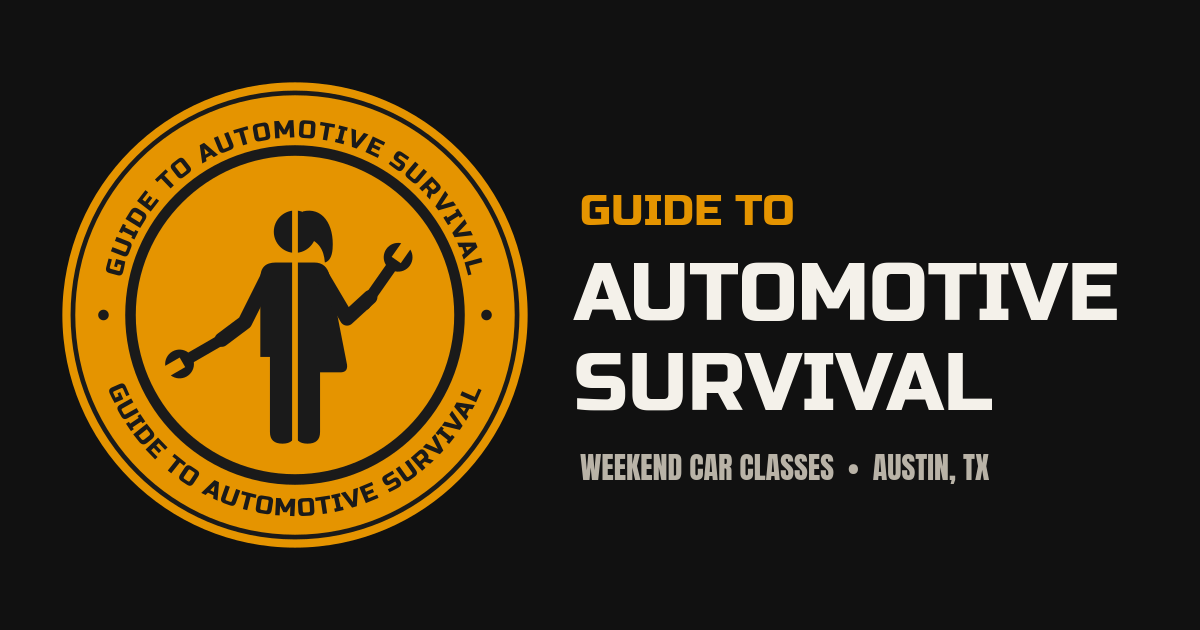
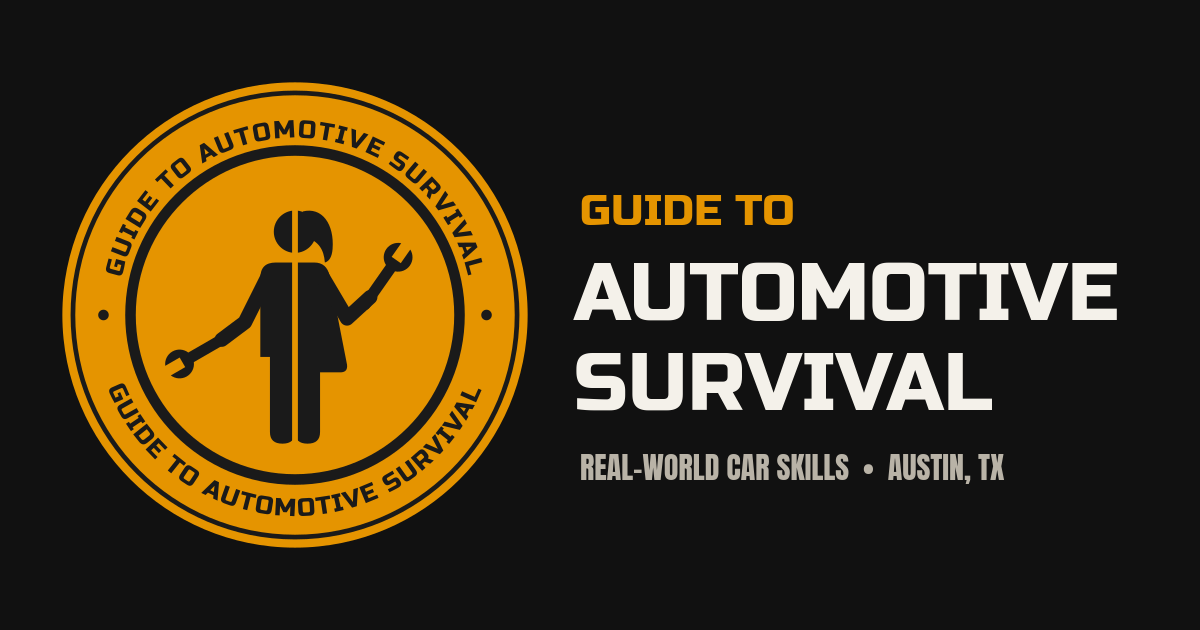
removed all weekend infoff

Changed region(s): [[0.4625, 0.7238, 0.8325, 0.7841]]

diff --git a/index.html b/index.html
@@ -3,13 +3,13 @@
 <head>
   <meta charset="UTF-8">
   <meta name="viewport" content="width=device-width, initial-scale=1.0">
-  <title>Guide to Automotive Survival | Weekend Car Classes in Austin, TX</title>
-  <meta name="description" content="Guide to Automotive Survival — hands-on weekend car classes in Austin, TX, taught by Cleveland Shinn of Oddball Kustom Garage. Registration opening soon.">
+  <title>Guide to Automotive Survival | Hands-On Car Classes in Austin, TX</title>
+  <meta name="description" content="Guide to Automotive Survival — hands-on, real-world car classes in Austin, TX, taught by Cleveland Shinn of Oddball Kustom Garage. Registration opening soon.">
   <meta name="theme-color" content="#111111">
 
   <!-- Social preview -->
   <meta property="og:title" content="Guide to Automotive Survival">
-  <meta property="og:description" content="Hands-on weekend car classes in Austin, TX. Taught by Cleveland Shinn of Oddball Kustom Garage. Registration opening soon.">
+  <meta property="og:description" content="Hands-on, real-world car classes in Austin, TX. Taught by Cleveland Shinn of Oddball Kustom Garage. Registration opening soon.">
   <meta property="og:type" content="website">
   <!-- Social platforms need an absolute URL; this works once the domain points at Netlify -->
   <meta property="og:image" content="https://www.guidetoautomotivesurvival.com/images/brand/og-image.png">
@@ -75,7 +75,7 @@
         <div class="hero__shade" aria-hidden="true"></div>
 
         <div class="hero__content">
-          <p class="hero__eyebrow">Weekend car classes &middot; Austin, TX</p>
+          <p class="hero__eyebrow">Real-world car skills &middot; Austin, TX</p>
           <h1 class="hero__title" id="hero-title">Don't Get<br>Stranded.</h1>
           <p class="hero__lede">Hands-on classes that teach you to handle your car when it counts — on the roadside, in the driveway, and at the shop counter.</p>
           <div class="hero__actions">
@@ -98,8 +98,8 @@
     <!-- ================= TICKER ================= -->
     <div class="ticker" aria-hidden="true">
       <div class="ticker__track">
-        <span>Site under construction</span><span>Saturdays &amp; Sundays</span><span>South Austin</span><span>Know your car</span><span>Register online soon</span><span>Gift cards coming</span><span>The answers are in the class</span>
-        <span>Site under construction</span><span>Saturdays &amp; Sundays</span><span>South Austin</span><span>Know your car</span><span>Register online soon</span><span>Gift cards coming</span><span>The answers are in the class</span>
+        <span>Site under construction</span><span>Hands-on training</span><span>South Austin</span><span>Know your car</span><span>Register online soon</span><span>Gift cards coming</span><span>The answers are in the class</span>
+        <span>Site under construction</span><span>Hands-on training</span><span>South Austin</span><span>Know your car</span><span>Register online soon</span><span>Gift cards coming</span><span>The answers are in the class</span>
       </div>
     </div>
 
@@ -114,8 +114,8 @@
             <div class="card__icon" aria-hidden="true">
               <svg viewBox="0 0 48 48"><rect x="6" y="10" width="36" height="32" rx="4"/><path d="M6 19h36M15 6v8M33 6v8"/><path d="M15 28h6M27 28h6M15 35h6"/></svg>
             </div>
-            <h3>Weekend Classes</h3>
-            <p>The Guide to Automotive Survival runs on <strong>Saturdays and Sundays</strong>, so you can learn without missing work.</p>
+            <h3>Classes on Your Schedule</h3>
+            <p>The Guide to Automotive Survival runs on <strong>multiple dates</strong>, so you can pick the class that fits your life.</p>
           </li>
           <li class="card">
             <div class="card__icon" aria-hidden="true">
